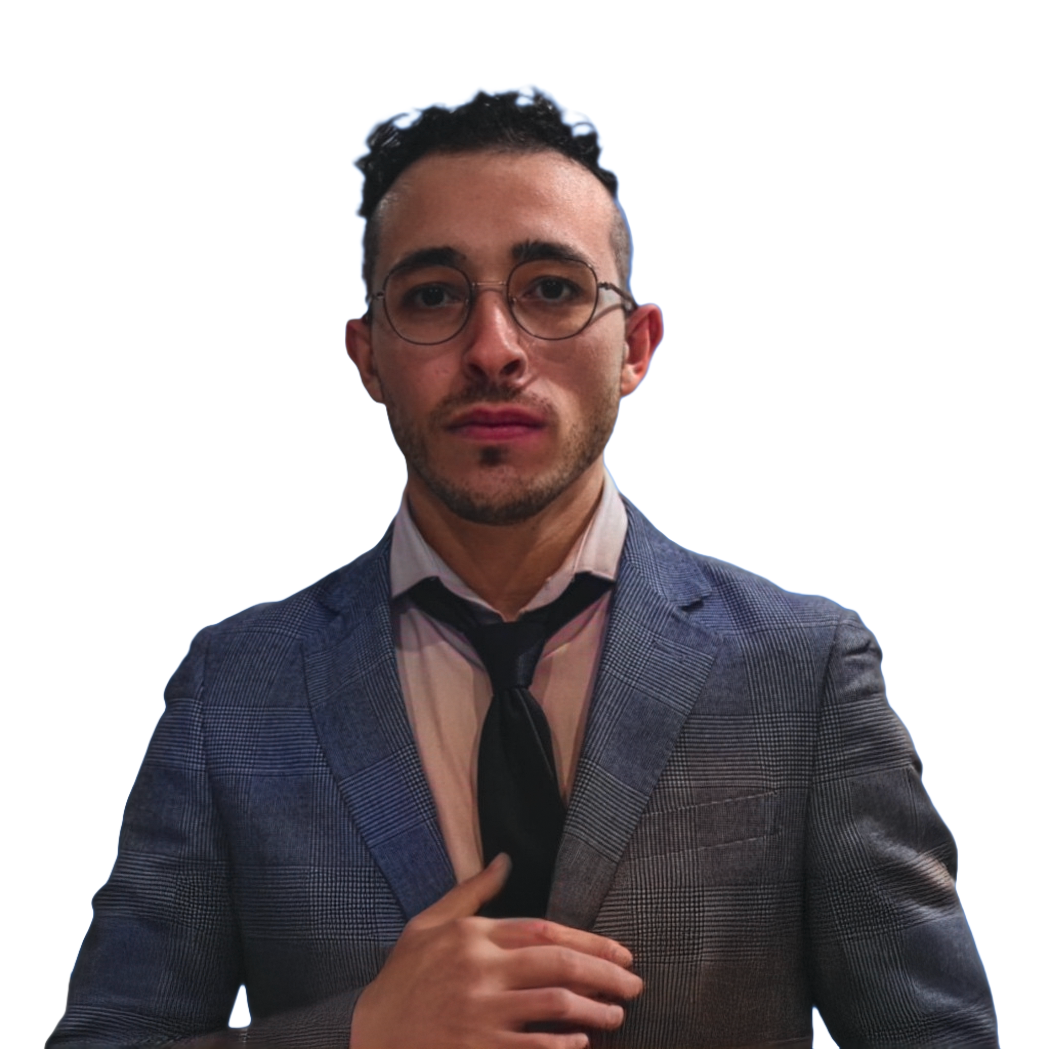
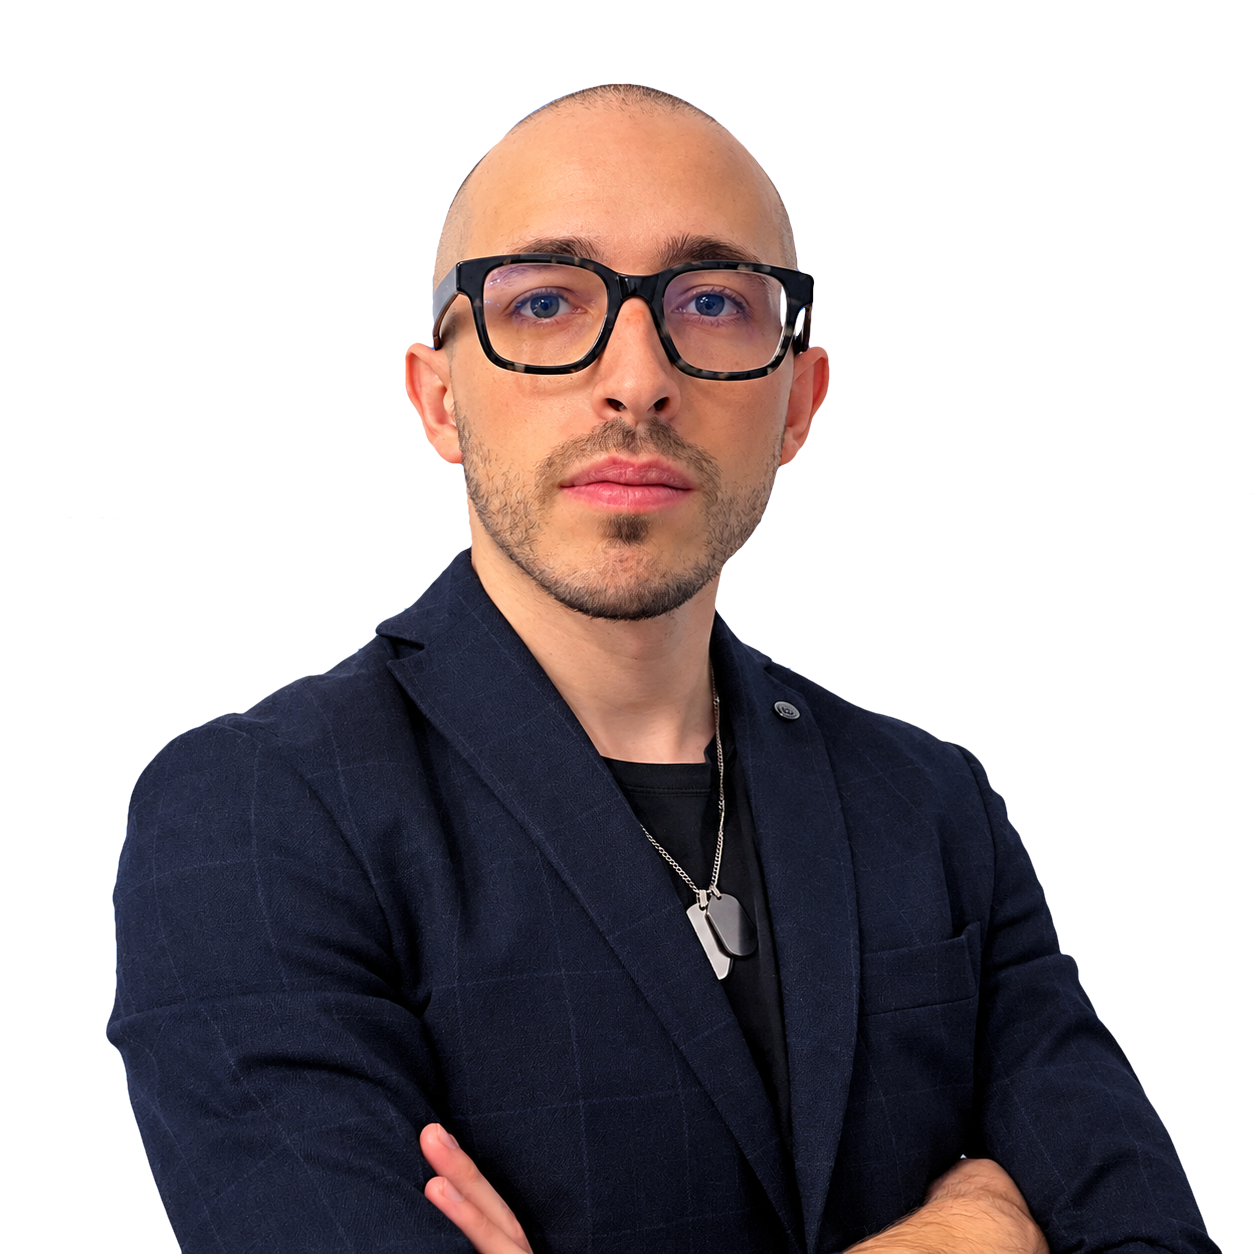
Modifiche

diff --git a/lib/landings.ts b/lib/landings.ts
@@ -80,7 +80,7 @@ export function buildLandingMetadata(
       alternateLocale: [OG_LOCALES[otherLocale]],
       images: [
         {
-          url: "/profile_image.jpeg",
+          url: "/profile_image.jpg",
           width: 800,
           height: 800,
           alt: "Alessio Quagliara",
@@ -92,7 +92,7 @@ export function buildLandingMetadata(
       card: "summary",
       title: seo.title,
       description: seo.description,
-      images: ["/profile_image.jpeg"],
+      images: ["/profile_image.jpg"],
     },
     robots: { index: true, follow: true },
   };
@@ -132,7 +132,7 @@ export function buildLandingJsonLd({
         "@id": personId,
         name: "Alessio Quagliara",
         url: `${SITE_URL}/`,
-        image: `${SITE_URL}/profile_image.jpeg`,
+        image: `${SITE_URL}/profile_image.jpg`,
         jobTitle: "Full Stack Developer",
         knowsLanguage: ["it", "en"],
         sameAs: SAME_AS,

diff --git a/components/landing/landing-ui.tsx b/components/landing/landing-ui.tsx
@@ -406,7 +406,7 @@ export function CredibilityBlock({
       <div className="grid gap-10 lg:grid-cols-[0.8fr_1.2fr]">
         <div data-reveal-item>
           <Image
-            src="/profile_image.jpeg"
+            src="/profile_image.jpg"
             alt={photoAlt}
             width={800}
             height={800}
